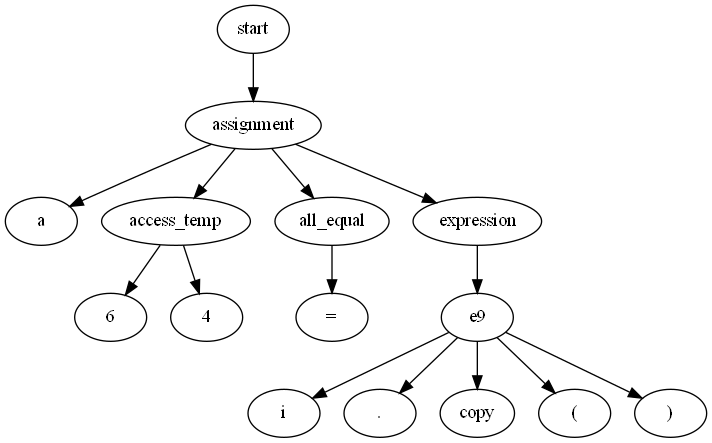
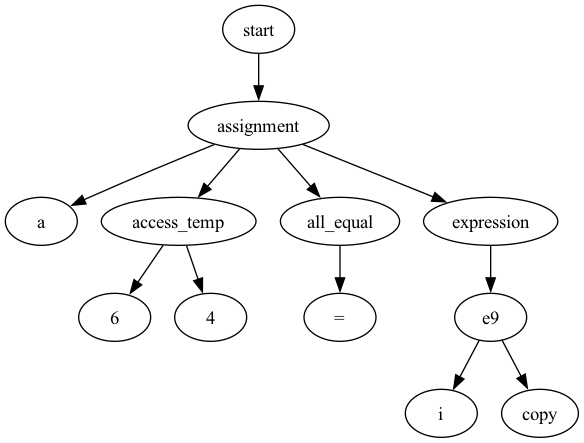
Final changes in AST

diff --git a/AST_CodeSangam.py b/AST_CodeSangam.py
@@ -110,8 +110,12 @@ class OurTransformer(lark.Transformer):
     
     def e9(self, children):
         children = remove_none(children)
+        newchildren = []
         if len(children)!=1:
-            return ast_classes.e9(children)
+            for child in children:
+                if (child!="." and child!="(" and child!=")" and child!="[" and child!="]"):
+                    newchildren.append(child) 
+            return ast_classes.e9(newchildren)           
         return children
     
     def data_types(self, children):
